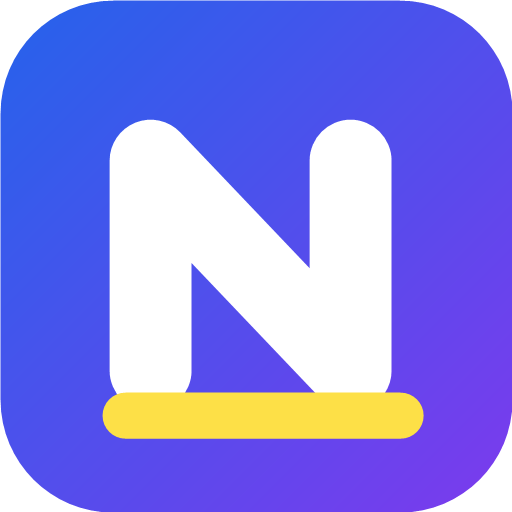
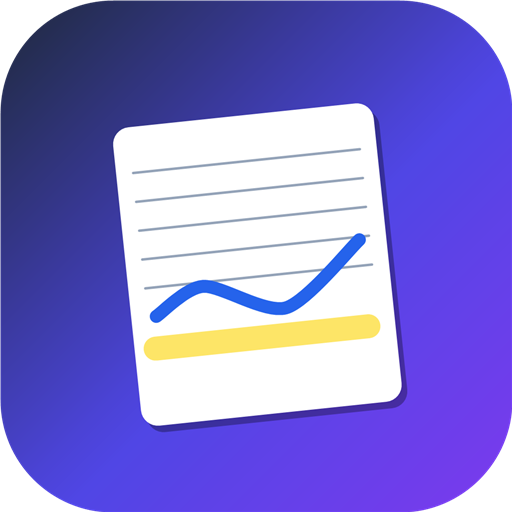
v4.5 圆珠笔排在钢笔上方；全新应用图标（暗紫渐变+纸张+笔触）与启动画面同步更新

diff --git a/index.html b/index.html
@@ -38,13 +38,13 @@
 
     <div class="tb-tools">
       <div id="toolGroup" class="tool-group">
-        <button class="tool-btn active" data-tool="pen" title="钢笔" aria-label="钢笔">
-          <svg viewBox="0 0 24 24" class="ic"><path d="M4 20l1.2-4.2L16.5 4.5a2.1 2.1 0 0 1 3 3L8.2 18.8 4 20z"/></svg>
-          <span class="tool-name">钢笔</span>
-        </button>
         <button class="tool-btn" data-tool="ballpen" title="圆珠笔" aria-label="圆珠笔">
           <svg viewBox="0 0 24 24" class="ic"><circle cx="12" cy="6" r="1.7"/><path d="M12 7.5V19M12 19l-2.6-2.6M12 19l2.6-2.6"/></svg>
           <span class="tool-name">圆珠</span>
+        </button>
+        <button class="tool-btn active" data-tool="pen" title="钢笔" aria-label="钢笔">
+          <svg viewBox="0 0 24 24" class="ic"><path d="M4 20l1.2-4.2L16.5 4.5a2.1 2.1 0 0 1 3 3L8.2 18.8 4 20z"/></svg>
+          <span class="tool-name">钢笔</span>
         </button>
         <button class="tool-btn" data-tool="highlighter" title="荧光笔" aria-label="荧光笔">
           <svg viewBox="0 0 24 24" class="ic"><path d="M5 19l6-12 6 12M7 15h10" stroke-width="2.4" fill="none"/></svg>

diff --git a/js/app.js b/js/app.js
@@ -7,7 +7,7 @@ import { newId, newLibrary, newNote, newPage, loadLibrary, saveLibrary, sanitize
 import { DrawingEngine, PAGE_W, PAGE_H, renderPageToCanvas, paperInfo } from './drawing.js';
 import { canvasesToPdf } from './pdf.js';
 
-const APP_VERSION = '4.4';
+const APP_VERSION = '4.5';
 const $ = (s) => document.querySelector(s);
 const FONT = '-apple-system, BlinkMacSystemFont, "PingFang SC", "Hiragino Sans GB", "Microsoft YaHei", sans-serif';
 
@@ -1430,6 +1430,7 @@ async function init() {
 }
 
 init();
+
 
 
 
